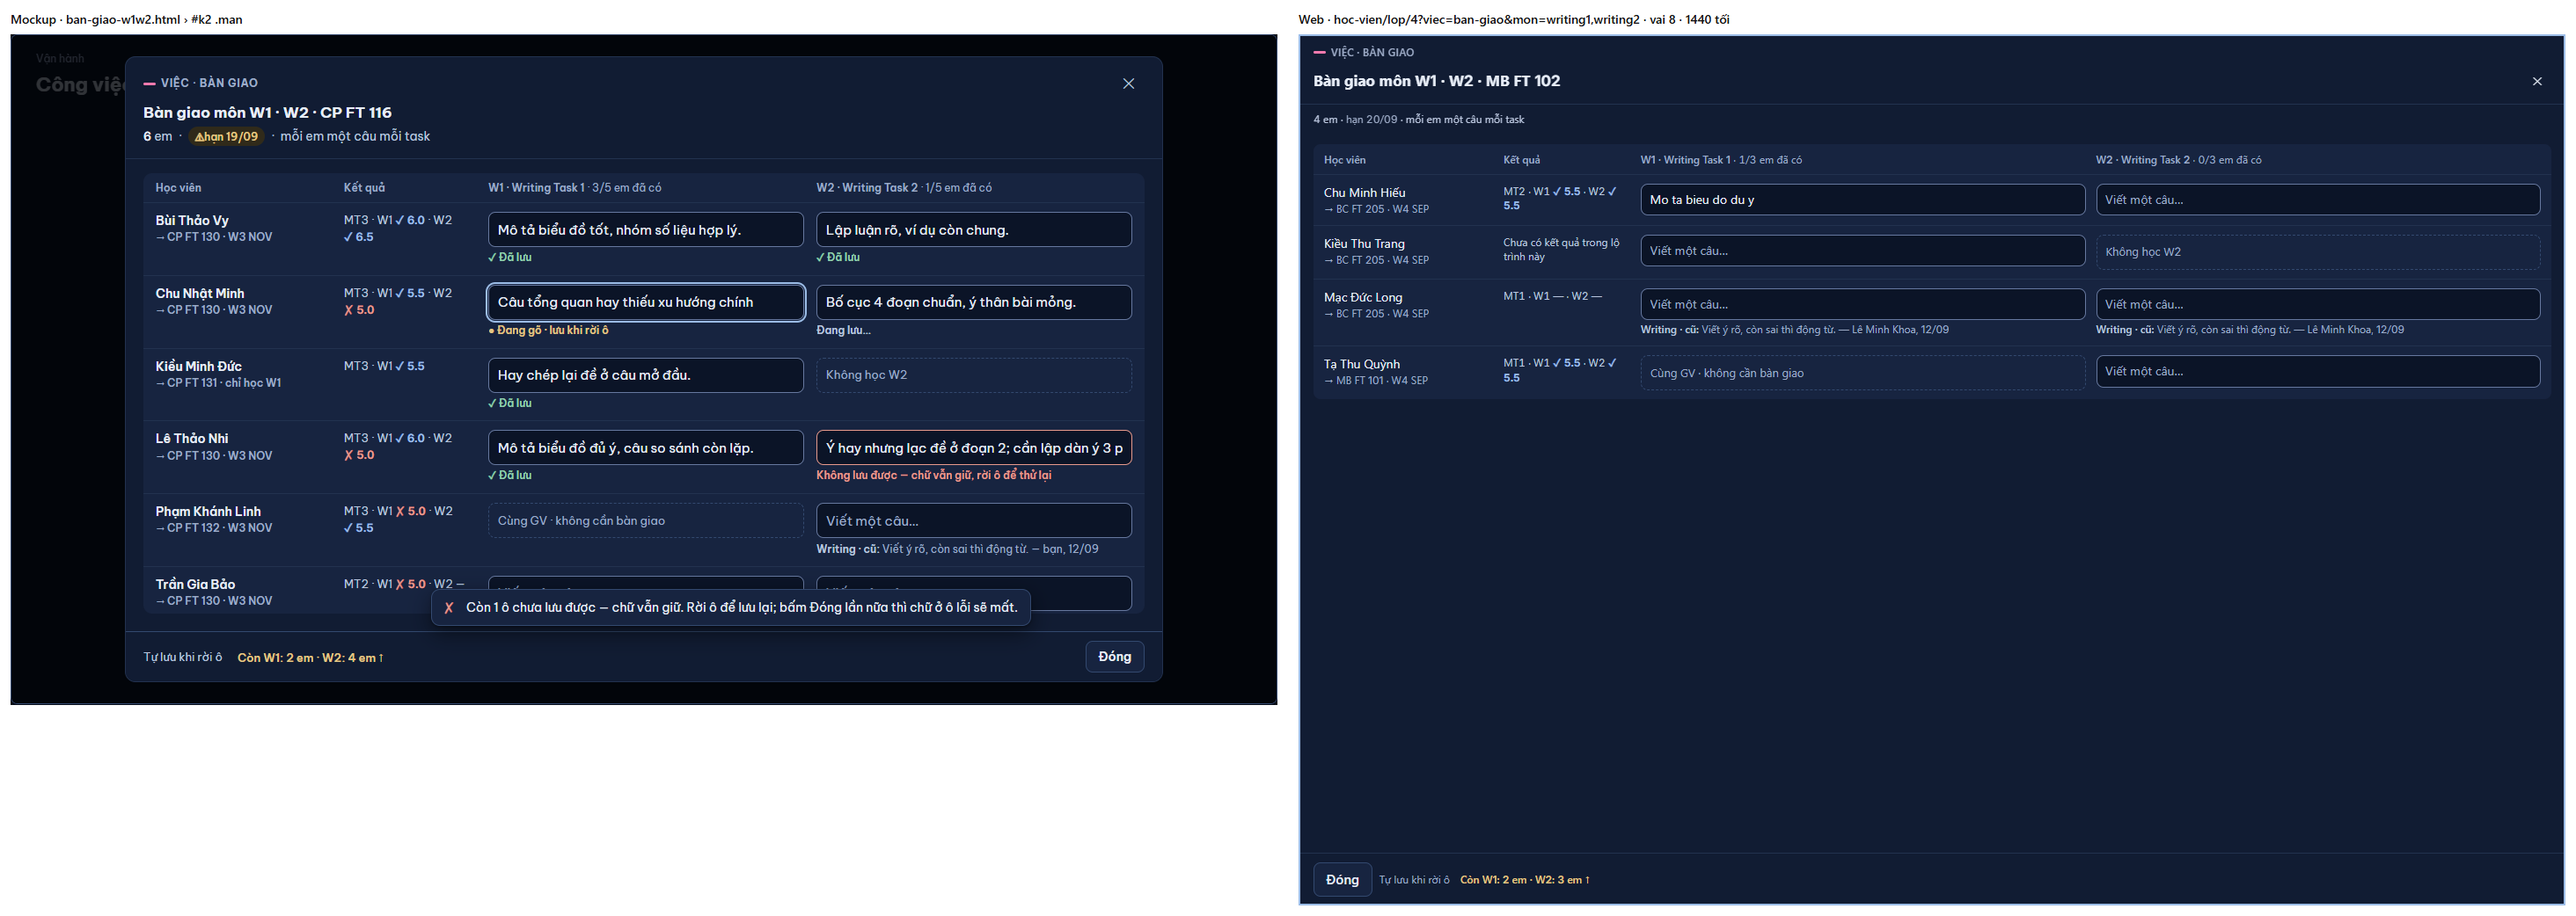
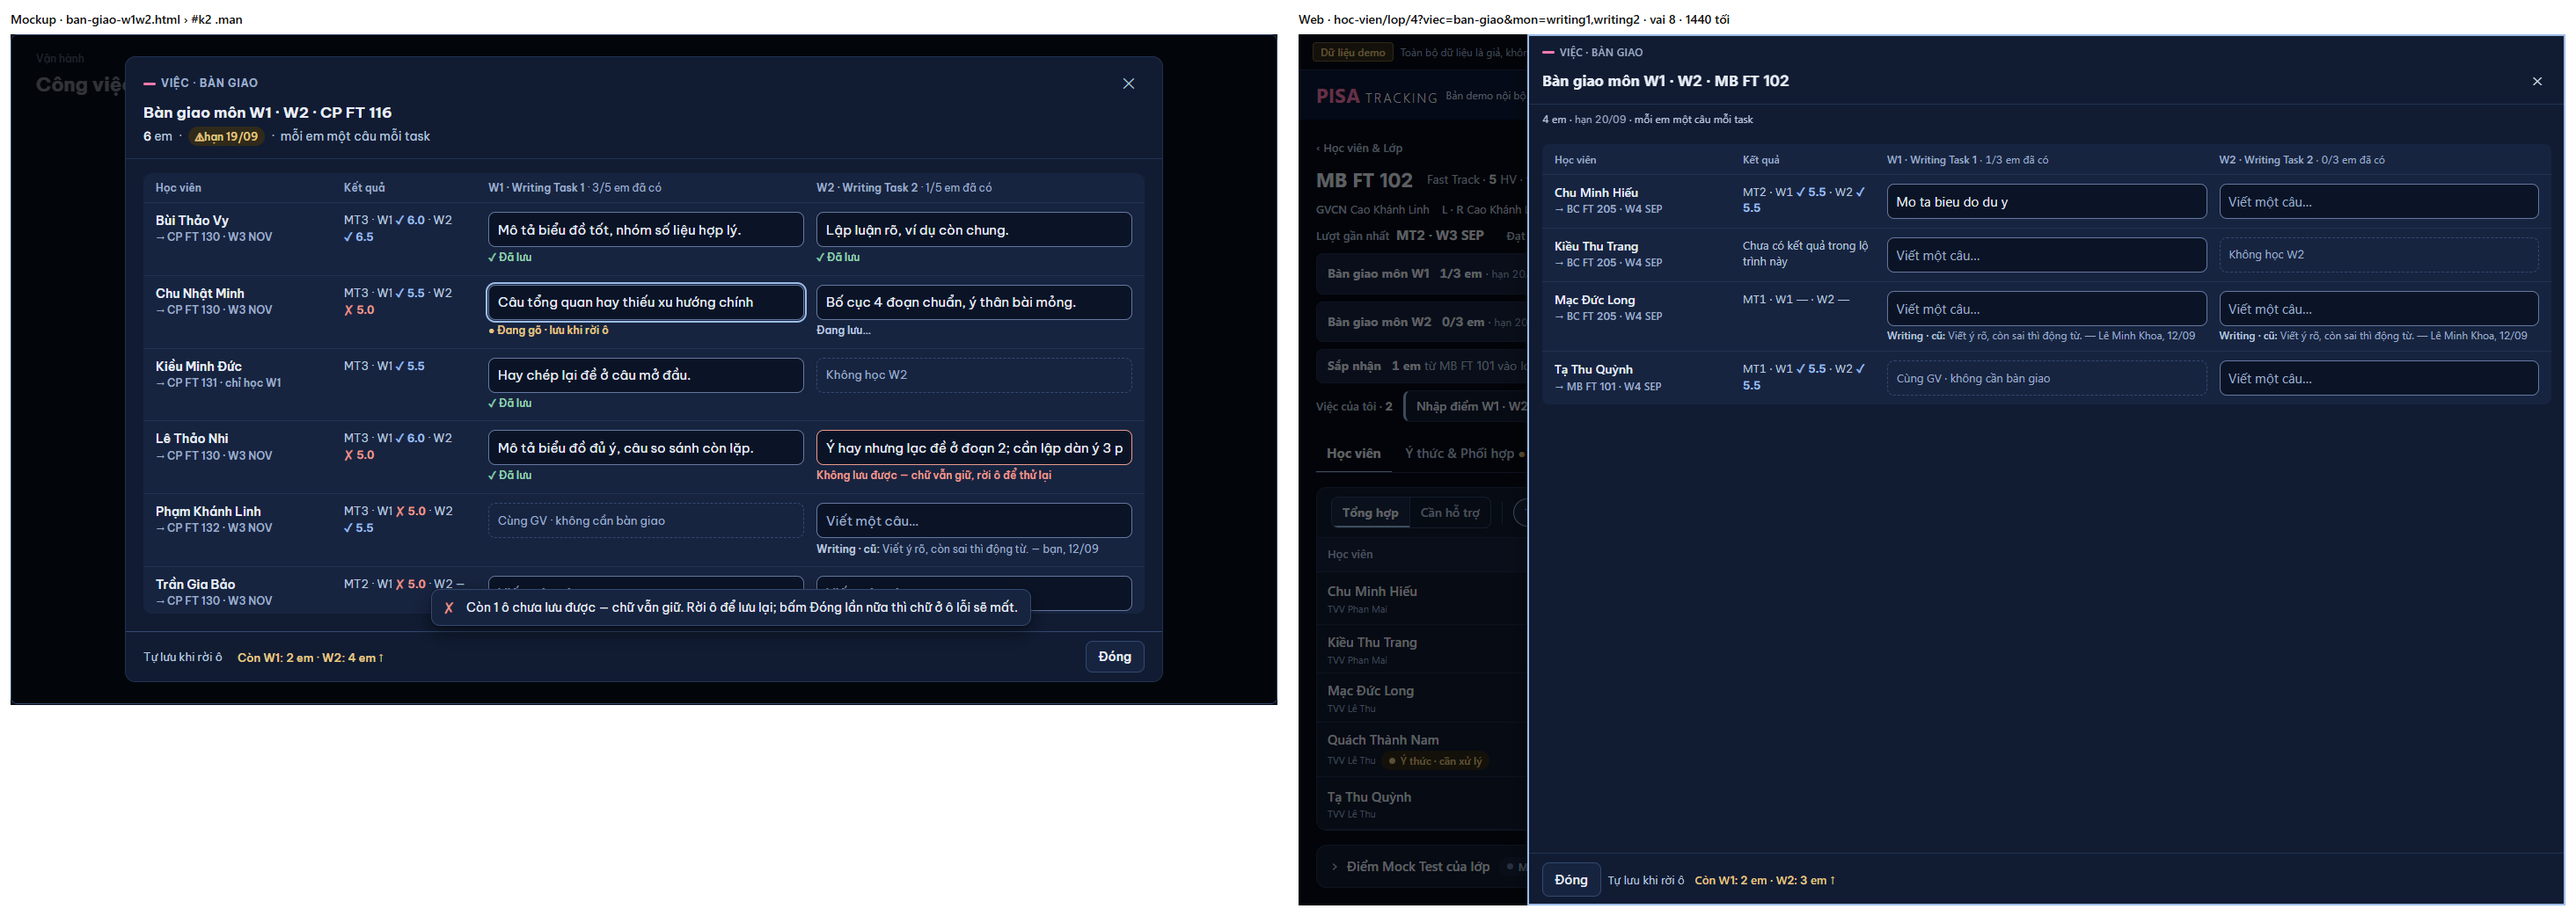
bàn giao: chữ + bề rộng theo đúng số đo mockup v11 (chủ SP: chữ bé, xấu)
- KhungPanel rong="vua" 1180 px cho panel bàn giao chuyển lớp (GVBM hai cột, GVCN)
- bảng GVBM: tên 14/600, dòng phụ 12/600, Kết quả 13 px, ô 15 px cao 40, đệm 14 px, cột 200 · 150, trạng thái 12/600, chân 13 px
- GVCN: tên em 700, nhãn tự điền 13/500, tiêu đề Bàn giao của GVBM 13 px
- ảnh cặp chụp lại + bảng đo trong khop-khac.md

Changed region(s): [[0.4973, 0.0307, 0.9945, 1.0], [0.8081, 0.1536, 0.9324, 0.1843], [0.7459, 0.1536, 0.777, 0.1843]]

diff --git a/web/src/modules/classes/BanGiaoPanel.tsx b/web/src/modules/classes/BanGiaoPanel.tsx
@@ -146,7 +146,7 @@ function MasterDetail({ dto, lenhId, onClose, onDone, reload, quayLai }: Chung) 
   const quaHanSom = quaHan({ hanGvcn: dto.hanGvcn, xacNhan: null });
 
   return (
-    <KhungPanel quayLai={quayLai} rong="toan" loai={ghi ? t('VIỆC · BÀN GIAO') : t('BÀN GIAO · ĐỌC')} tieuDe={`${t('Bàn giao')} · ${dto.lop.code}`} onDong={onClose}
+    <KhungPanel quayLai={quayLai} rong="vua" loai={ghi ? t('VIỆC · BÀN GIAO') : t('BÀN GIAO · ĐỌC')} tieuDe={`${t('Bàn giao')} · ${dto.lop.code}`} onDong={onClose}
       ngCanh={<span className="tabular-nums">{t('{n} em', { n: dto.tong })} · {t('{a}/{b} đã xác nhận', { a: dto.daXacNhan, b: dto.tong })}{dto.hanGvcn && <> · {t('hạn sớm nhất {ngay}', { ngay: shortDate(dto.hanGvcn, homNay) })}{quaHanSom != null && <> · {dto.hanGvcnEm} <QuaHan ngay={quaHanSom} /></>}</>}</span>}
       chan={{
         daSua: daSuaNx,
@@ -180,7 +180,7 @@ function MasterDetail({ dto, lenhId, onClose, onDone, reload, quayLai }: Chung) 
 
           <div className="min-w-0 space-y-4">
             <div className="flex flex-wrap items-center gap-2">
-              <h3 className="m-0 text-base font-semibold text-slate-100">
+              <h3 className="m-0 text-base font-bold text-slate-100">
                 {em.ten}{em.lopDich ? ` → ${em.lopDich.code}` : ''} <span className="font-normal text-slate-400">{t('từ {tuan}', { tuan: tuanLich(em.tuan, homNay) })}</span>
               </h3>
               {!em.xacNhan && chuaMon.length > 0 && <Nhan tone="soon">{t('Chờ môn {ds}', { ds: chuaMon.map((m) => m.ngan).join(', ') })}</Nhan>}
@@ -191,7 +191,7 @@ function MasterDetail({ dto, lenhId, onClose, onDone, reload, quayLai }: Chung) 
             <TuDienEm tuDien={em.tuDien} daChup={em.tuDienDaChup} />
 
             <section aria-label={t('Thông tin bàn giao của GVBM')}>
-              <h4 className="mb-2 mt-0 text-[12px] font-semibold text-slate-500">
+              <h4 className="mb-2 mt-0 text-[13px] font-semibold text-slate-500">
                 {t('Bàn giao của GVBM · mỗi môn một câu')}{ghi && !em.xacNhan && <span className="ml-2 font-normal normal-case tracking-normal text-slate-500">{t('GVCN điền thay được')}</span>}
               </h4>
               <ul className="m-0 list-none space-y-1.5 p-0">
@@ -344,24 +344,24 @@ function BangGvbm({ dto, mons, lenhId, onClose, onDone, reload, quayLai }: Chung
     for (const e of dto.ds) for (const m of mons) if (can(e, m) && !daCo(e, m)) { document.getElementById(idO(e.lenhId, m))?.focus(); return; }
   };
   const ngan = (m: string) => dto.lop.mon.find((y) => y.ma === m)?.ngan ?? m;
-  const cot = hai ? 'sm:grid-cols-[12rem_9rem_minmax(0,1fr)_minmax(0,1fr)]' : 'sm:grid-cols-[minmax(0,1fr)_minmax(0,1.6fr)_minmax(0,2fr)]';
+  const cot = hai ? 'sm:grid-cols-[200px_150px_minmax(0,1fr)_minmax(0,1fr)]' : 'sm:grid-cols-[minmax(0,1fr)_minmax(0,1.6fr)_minmax(0,2fr)]';
   const oTrong = (chuO: string) => (
     <span className="flex min-h-[44px] items-center rounded-lg border border-dashed px-2.5 text-[13px] text-slate-500 sm:min-h-[40px]" style={{ borderColor: 'var(--line-strong)' }}>{chuO}</span>
   );
   const nhanTt: Record<TtO, string> = { idle: '', go: t('● Đang gõ · lưu khi rời ô'), dang: t('Đang lưu…'), xong: t('✓ Đã lưu'), loi: '' };
 
   return (
-    <KhungPanel quayLai={quayLai} rong={hai ? 'toan' : 'rong'} loai={t('VIỆC · BÀN GIAO')} onDong={dong}
+    <KhungPanel quayLai={quayLai} rong={hai ? 'vua' : 'rong'} loai={t('VIỆC · BÀN GIAO')} onDong={dong}
       tieuDe={hai ? t('Bàn giao môn {mon} · {lop}', { mon: mDs.map((x) => x.ngan).join(' · '), lop: dto.lop.code }) : t('Bàn giao môn {mon} ({ten})', { mon: mDs[0].ngan, ten: mDs[0].ten })}
       ngCanh={<span className="tabular-nums">{!hai && <>{dto.lop.code} · </>}{t('{n} em', { n: dto.tong })}{han && <> · <Han loai="viec-van-hanh" han={han} /></>} · {hai ? t('mỗi em một câu mỗi task') : t('mỗi em một câu')}</span>}
       chan={{
         daSua,
         huy: { nhan: t('Đóng'), onClick: dongSauKhiLuu(hang, dongHan, baoChuaLuu, true) },
         trai: (
-          <span className="flex flex-wrap items-center gap-x-3 text-xs text-slate-500">
+          <span className="flex flex-wrap items-center gap-x-3 text-[13px] text-slate-400">
             <span className="tabular-nums">{hai ? t('Tự lưu khi rời ô') : t('Tự lưu khi rời ô · {a}/{b} em đã có', { a: dem[0].da, b: dem[0].can })}</span>
             {conThieu.length > 0 && (
-              <button type="button" className="min-h-[44px] border-0 bg-transparent p-0 text-xs font-semibold text-soon hover:underline sm:min-h-0" onClick={denThieu}>
+              <button type="button" className="min-h-[44px] border-0 bg-transparent p-0 text-[13px] font-semibold text-soon hover:underline sm:min-h-0" onClick={denThieu}>
                 {hai ? t('Còn {ds} ↑', { ds: conThieu.map((x) => t('{mon}: {n} em', { mon: ngan(x.m), n: x.can - x.da })).join(' · ') })
                   : t('Còn {n} em ↑', { n: conThieu[0].can - conThieu[0].da })}
               </button>
@@ -370,7 +370,7 @@ function BangGvbm({ dto, mons, lenhId, onClose, onDone, reload, quayLai }: Chung
         ),
       }}>
       <div className="surface-2 mt-3 divide-y rounded-lg" style={{ borderColor: 'var(--line)' }} role="table" aria-label={t('Bàn giao môn {mon}', { mon: mDs.map((x) => x.ngan).join(' · ') })}>
-        <div role="row" className={`hidden gap-3 px-3 py-2 text-[12px] font-semibold text-slate-500 sm:grid ${cot}`}>
+        <div role="row" className={`hidden gap-3.5 px-3.5 py-2 text-[12px] font-semibold text-slate-500 sm:grid ${cot}`}>
           <span role="columnheader">{t('Học viên')}</span><span role="columnheader">{t('Kết quả')}</span>
           {hai ? dem.map((x, i) => (
             <span key={x.m} role="columnheader">{mDs[i].ngan} · {mDs[i].ten} <span className="font-normal tabular-nums">· {t('{a}/{b} em đã có', { a: x.da, b: x.can })}</span></span>
@@ -379,10 +379,10 @@ function BangGvbm({ dto, mons, lenhId, onClose, onDone, reload, quayLai }: Chung
         {dto.ds.map((e) => {
           const khoa = !!e.xacNhan && !e.suaDuoc;   // OV-13h: đã xác nhận vẫn sửa được, cả sau ngày chuyển lớp (khoá chỉ khi lệnh huỷ / không quyền)
           return (
-            <div key={e.lenhId} role="row" className={`grid gap-x-3 gap-y-1.5 px-3 py-2.5 text-sm ${cot}`}>
-              <span role="cell" className="min-w-0 truncate font-semibold text-slate-100 sm:font-normal" title={e.ten}>{e.ten}
-                {e.lopDich && <span className="block text-xs font-normal text-slate-500">→ {e.lopDich.code} · {tuanLich(e.tuan, homNay)}</span>}</span>
-              <span role="cell" className="min-w-0 text-xs text-slate-400">
+            <div key={e.lenhId} role="row" className={`grid gap-x-3.5 gap-y-1.5 px-3.5 py-2.5 text-sm ${cot}`}>
+              <span role="cell" className="min-w-0 truncate font-semibold text-slate-100" title={e.ten}>{e.ten}
+                {e.lopDich && <span className="block text-xs font-semibold text-slate-500">→ {e.lopDich.code} · {tuanLich(e.tuan, homNay)}</span>}</span>
+              <span role="cell" className="min-w-0 text-[13px] text-slate-400">
                 {/* Mockup v11: FT — lượt mới nhất + điểm từng cột của bảng (W1 · W2 riêng), ✓ / ✗ so kỳ vọng của lượt; không có thì câu tự điền như cũ. */}
                 {e.diemMon ? (
                   <span className="tabular-nums" aria-label={[e.diemMon.luot, ...mDs.map((x) => e.diemMon!.kn.find((kn) => kn.k === x.ngan))
@@ -409,7 +409,7 @@ function BangGvbm({ dto, mons, lenhId, onClose, onDone, reload, quayLai }: Chung
                     {hai && <span className="mb-1 flex items-center gap-1.5 text-[13px] font-bold text-slate-400 sm:hidden"><span className="rounded bg-[color:var(--accent-soft)] px-1.5 text-[12px] font-bold text-[color:var(--accent)]">{mDs[i].ngan}</span>{mDs[i].ten}</span>}
                     {!om ? oTrong(hai ? t('Không học {mon}', { mon: mDs[i].ngan }) : t('Không học {mon} · không cần bàn giao', { mon: mDs[i].ngan }))
                       : om.cungGv && !cu ? oTrong(t('Cùng GV · không cần bàn giao')) : <>
-                      <input id={idO(e.lenhId, m)} className="field w-full" maxLength={300} readOnly={khoa} autoComplete="off"
+                      <input id={idO(e.lenhId, m)} className="field w-full sm:h-10 sm:text-[15px]" maxLength={300} readOnly={khoa} autoComplete="off"
                         aria-label={hai ? `${mDs[i].ngan} · ${e.ten}` : t('Bàn giao môn {mon} của {ten}', { mon: mDs[i].ngan, ten: e.ten })}
                         aria-invalid={s0?.tt === 'loi'} aria-describedby={s0?.tt === 'loi' ? `${idO(e.lenhId, m)}-loi` : undefined}
                         placeholder={t('Viết một câu…')} value={chu[k(e, m)] ?? cu}
@@ -424,8 +424,8 @@ function BangGvbm({ dto, mons, lenhId, onClose, onDone, reload, quayLai }: Chung
                           <b className="font-semibold text-slate-400">{t('Writing · cũ')}:</b> {e.writingCu.noiDung}{e.writingCu.nguoiGhi ? ` — ${e.writingCu.nguoiGhi}, ${ngay(e.writingCu.ghiLuc, homNay)}` : ''}
                         </span>
                       )}
-                      {s0?.tt === 'loi' ? <span id={`${idO(e.lenhId, m)}-loi`} role="alert" className="mt-0.5 block text-xs text-late">{s0.loi}</span>
-                        : s0 && nhanTt[s0.tt] && <span aria-live="polite" className={`mt-0.5 block text-xs ${s0.tt === 'xong' ? 'text-done' : s0.tt === 'go' ? 'text-soon' : 'text-slate-400'}`}>{nhanTt[s0.tt]}</span>}
+                      {s0?.tt === 'loi' ? <span id={`${idO(e.lenhId, m)}-loi`} role="alert" className="mt-0.5 block text-xs font-semibold text-late">{s0.loi}</span>
+                        : s0 && nhanTt[s0.tt] && <span aria-live="polite" className={`mt-0.5 block text-xs font-semibold ${s0.tt === 'xong' ? 'text-done' : s0.tt === 'go' ? 'text-soon' : 'text-slate-400'}`}>{nhanTt[s0.tt]}</span>}
                       {!khoa && om.lamLai && s0?.tt !== 'xong' && (
                         <span className="mt-1 flex flex-wrap items-center gap-2 text-xs">
                           <Nhan tone="soon">{t('Cần làm lại')}</Nhan><span className="text-slate-400">{t('Lộ trình đã đổi — sửa hoặc giữ câu cũ')}</span>

diff --git a/web/src/ui/KhungPanel.tsx b/web/src/ui/KhungPanel.tsx
@@ -182,7 +182,8 @@ export function KhungPanel({ tieuDe, hocVien, lop, rong: rongRieng, tabs, vungTa
    *  Esc chỉ đóng panel mở sau cùng (`nganPanel`) — panel dưới không cần tự chặn Esc. */
   longTrong?: boolean;
   /** `toan`: lưới nhập hàng loạt nhiều cột (Thêm học viên) — rộng theo màn tới 1440px, không ép 10 cột vào ngăn hẹp. */
-  rong?: 'hep' | 'rong' | 'toan';
+  /** `vua` 1180 px: panel bàn giao (mockup v11 — bảng hai cột không trải hết 1440). */
+  rong?: 'hep' | 'rong' | 'vua' | 'toan';
   tabs?: ReactNode; ngCanh?: ReactNode;
   /** DON-NHO-3 (TAB-A11Y): thân cuộn là vùng của `tabs` (`role="tabpanel"`, id = `panelId` của HangTab) — chỉ gắn thuộc tính, không bọc thêm (Khoi `first:` giữ khoảng cách). */
   vungTab?: { id: string; nhan: string };
@@ -407,7 +408,7 @@ export function KhungPanel({ tieuDe, hocVien, lop, rong: rongRieng, tabs, vungTa
     /* T21: `bottom` = phần bàn phím ảo che (`useBanPhim`) — panel co lên, chân lưu nằm ngay trên bàn phím. */
     <div className={`fixed inset-0 !mt-0 ${z} flex justify-end`} style={{ bottom: 'var(--ban-phim, 0px)' }} role="dialog" aria-modal="true" aria-label={tieuDe}>
       <div className="absolute inset-0 bg-black/60" onClick={dong} />
-      <div ref={khung} tabIndex={-1} className={`relative flex h-full w-full flex-col rounded-none border-l shadow-2xl -outline-offset-2 ${rong === 'toan' ? 'max-w-[1440px]' : rong === 'rong' ? 'sm:w-[720px]' : 'sm:w-[480px]'}`}
+      <div ref={khung} tabIndex={-1} className={`relative flex h-full w-full flex-col rounded-none border-l shadow-2xl -outline-offset-2 ${rong === 'toan' ? 'max-w-[1440px]' : rong === 'vua' ? 'max-w-[1180px]' : rong === 'rong' ? 'sm:w-[720px]' : 'sm:w-[480px]'}`}
         style={{ background: 'var(--surface)', borderColor: 'var(--line-strong)' }}>
         {voi(than)}
       </div>

diff --git a/web/src/modules/classes/banGiaoChung.tsx b/web/src/modules/classes/banGiaoChung.tsx
@@ -61,13 +61,13 @@ export function TuDienEm({ tuDien, daChup }: { tuDien: TuDien | null; daChup: bo
       <h4 className="mb-2 mt-0 text-[12px] font-semibold text-slate-500">{t('Tự điền · chỉ đọc')}{daChup && ` · ${t('chụp lúc xác nhận')}`}</h4>
       {tuDien ? (
         <div className="grid grid-cols-[6.5rem_minmax(0,1fr)] gap-x-3 gap-y-1 text-sm">
-          <span className="text-slate-500">{t('Kết quả')}</span><span className="text-slate-200">{dich(tuDien.ketQua)}</span>
-          <span className="text-slate-500">{t('Case đang mở')}</span>
+          <span className="text-[13px] font-medium text-slate-500">{t('Kết quả')}</span><span className="text-slate-200">{dich(tuDien.ketQua)}</span>
+          <span className="text-[13px] font-medium text-slate-500">{t('Case đang mở')}</span>
           <span className="text-slate-200">
             {tuDien.caseMo.length ? tuDien.caseMo.map((c) => `${dich(c.ten)}${c.nguoiNhan ? ` · ${t('người nhận gợi ý: {ten}', { ten: c.nguoiNhan })}` : ''}`).join(' · ') : t('Không có')}
           </span>
-          <span className="text-slate-500">{t('Ý thức')}</span><span className="text-slate-200">{dich(tuDien.yThuc)}</span>
-          <span className="text-slate-500">{t('Việc còn dở')}</span><span className="text-slate-200">{dich(tuDien.viecConDo)}</span>
+          <span className="text-[13px] font-medium text-slate-500">{t('Ý thức')}</span><span className="text-slate-200">{dich(tuDien.yThuc)}</span>
+          <span className="text-[13px] font-medium text-slate-500">{t('Việc còn dở')}</span><span className="text-slate-200">{dich(tuDien.viecConDo)}</span>
         </div>
       ) : <p className="m-0 text-sm text-slate-400">{t('Chưa có dữ liệu tự điền.')}</p>}
     </section>

diff --git a/docs/anh/ban-giao-ket-qua/khop-khac.md b/docs/anh/ban-giao-ket-qua/khop-khac.md
@@ -12,3 +12,18 @@ Bảng thành phần #856 nay KHỚP 16/18 (2 KHÁC chủ SP đã đồng ý lý
 
 ## Thao tác TRƯỚC → SAU
 Không đổi thao tác. Chỉ thêm thông tin đọc (đọc màn hình: "MT2 · W1 ✓ 5.5 · W2 ✓ 5.5").
+
+## Chữ + bề rộng (chủ SP 03/11: "text vừa bé vừa xấu") — đo computed style mockup ↔ web, sửa theo số mockup
+| Phần | Mockup | Web trước | Web sau |
+|---|---|---|---|
+| Bề rộng panel (GVBM hai cột + GVCN) | 1180 px | ~1410 px (`toan`) | 1180 px (`KhungPanel rong="vua"` mới) |
+| Cột Học viên · Kết quả · W1 · W2 | 200 · 150 · 359 · 359 | 192 · 144 · 505 · 505 | 200 · 150 · ~360 · ~360 |
+| Tên em / dòng lớp chuyển đến | 14 px 600 / 12 px 600 | 14 px 400 / 12 px 400 | 14 px 600 / 12 px 600 |
+| Kết quả | 13 px | 12 px | 13 px |
+| Ô nhập | 15 px, cao 40 | 14 px, cao 37 | 15 px, cao 40 |
+| Đệm hàng | 10 · 14 px | 10 · 12 px | 10 · 14 px |
+| Trạng thái ô | 12 px 600 | 12 px 400 | 12 px 600 |
+| Chân "Tự lưu… · Còn …" | 13 px | 12 px | 13 px |
+| GVCN: tên em · nhãn tự điền · "Bàn giao của GVBM" | 15/700 · 13/500 · 13/600 | 15/600 · 14/400 · 12/600 | 15/700 · 13/500 · 13/600 |
+
+Ảnh cặp chụp lại sau sửa: 4 tệp trong thư mục này (GVBM + GVCN, 1440 tối · 375 sáng).
